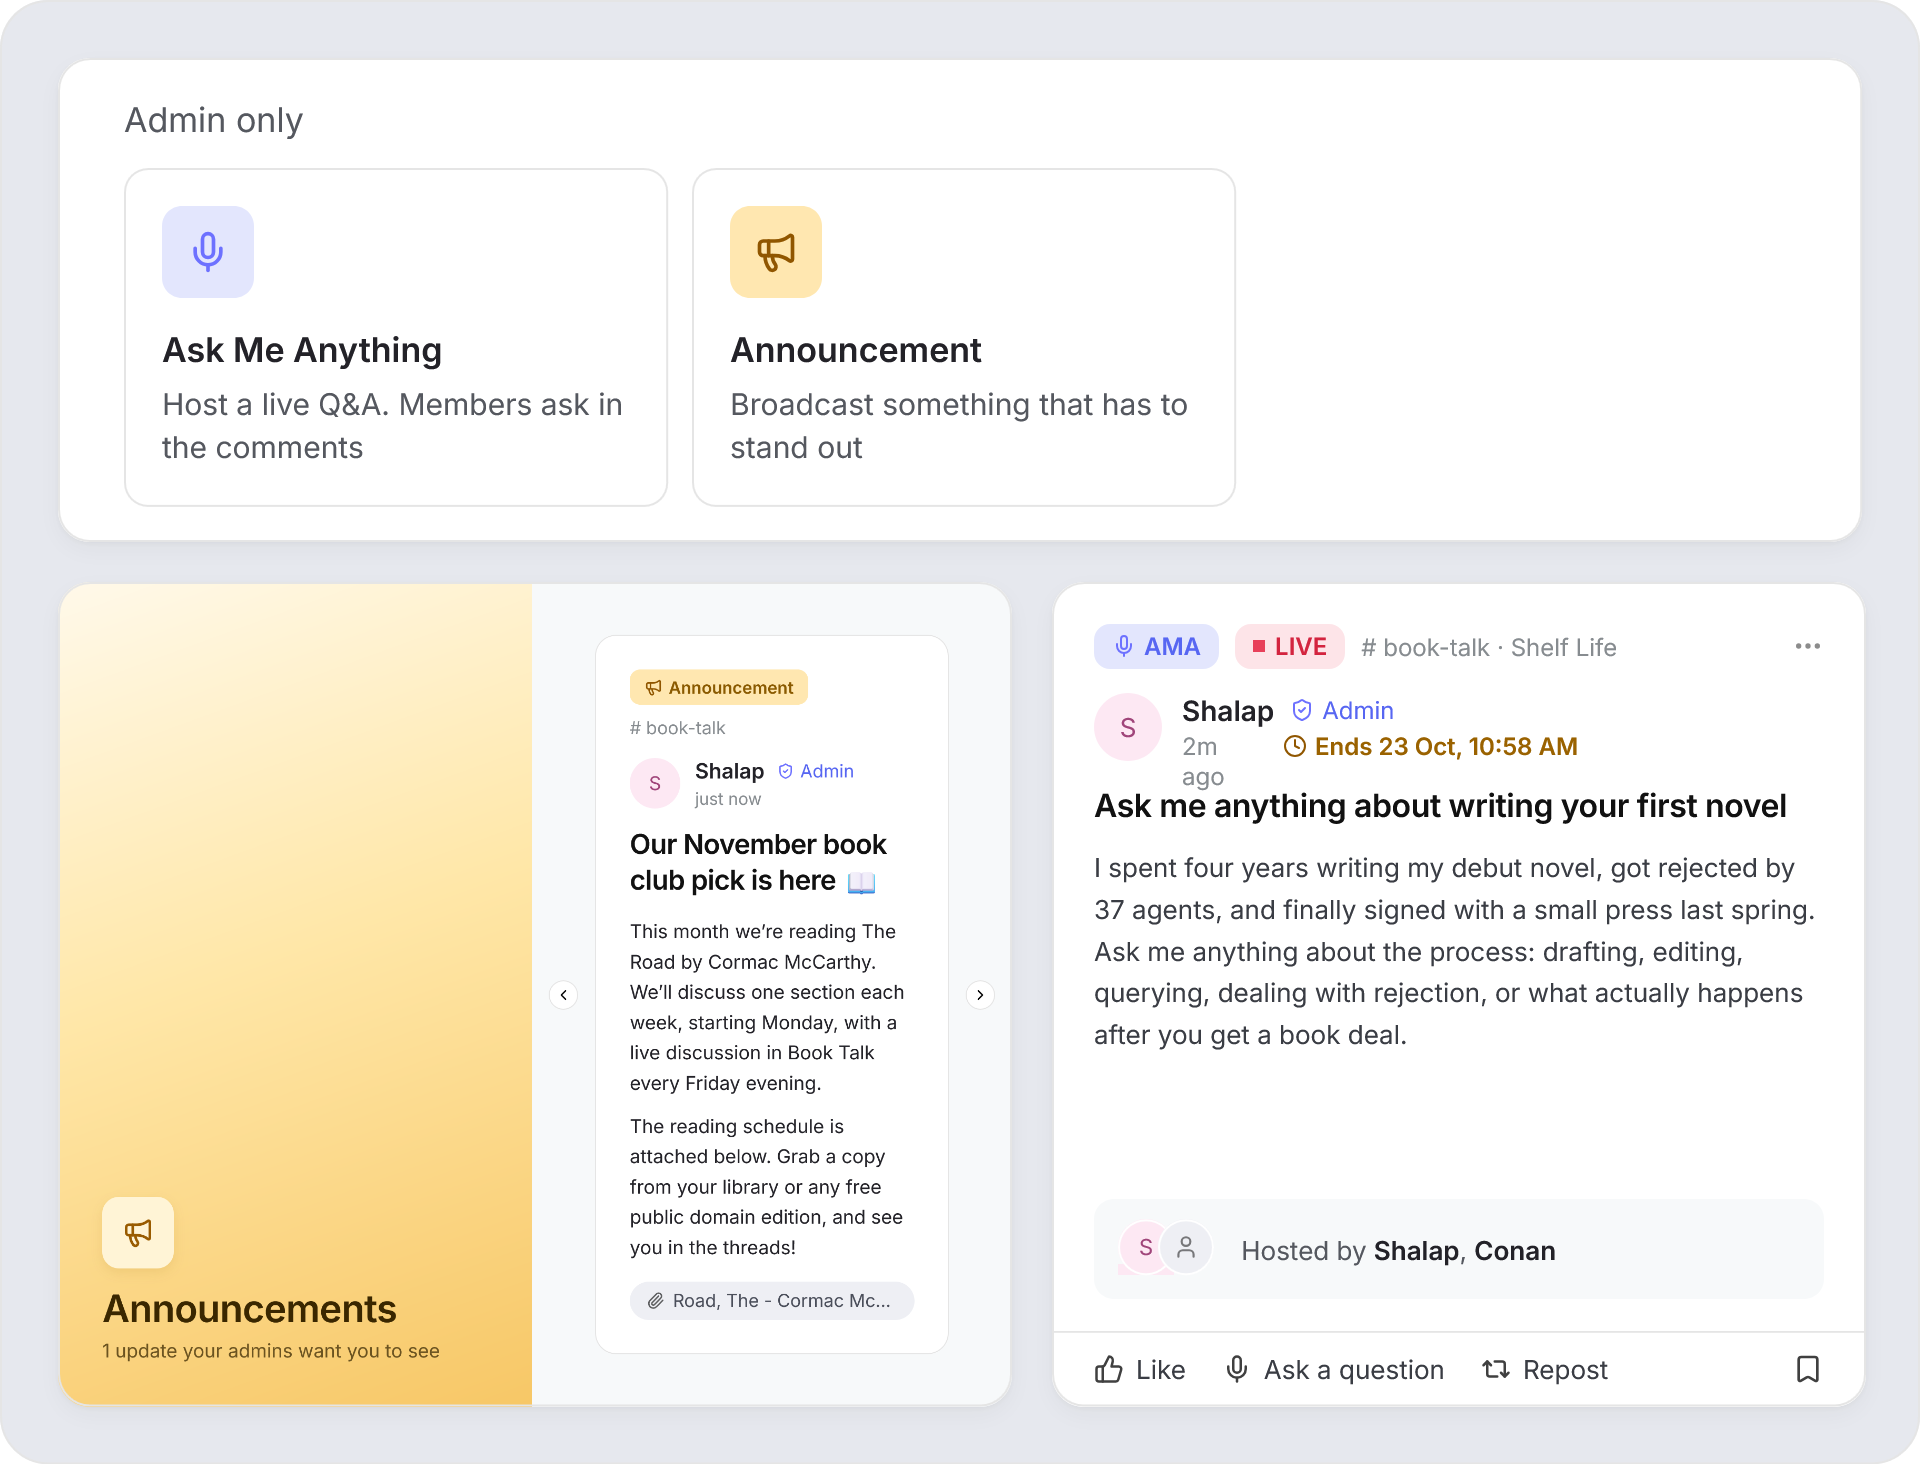
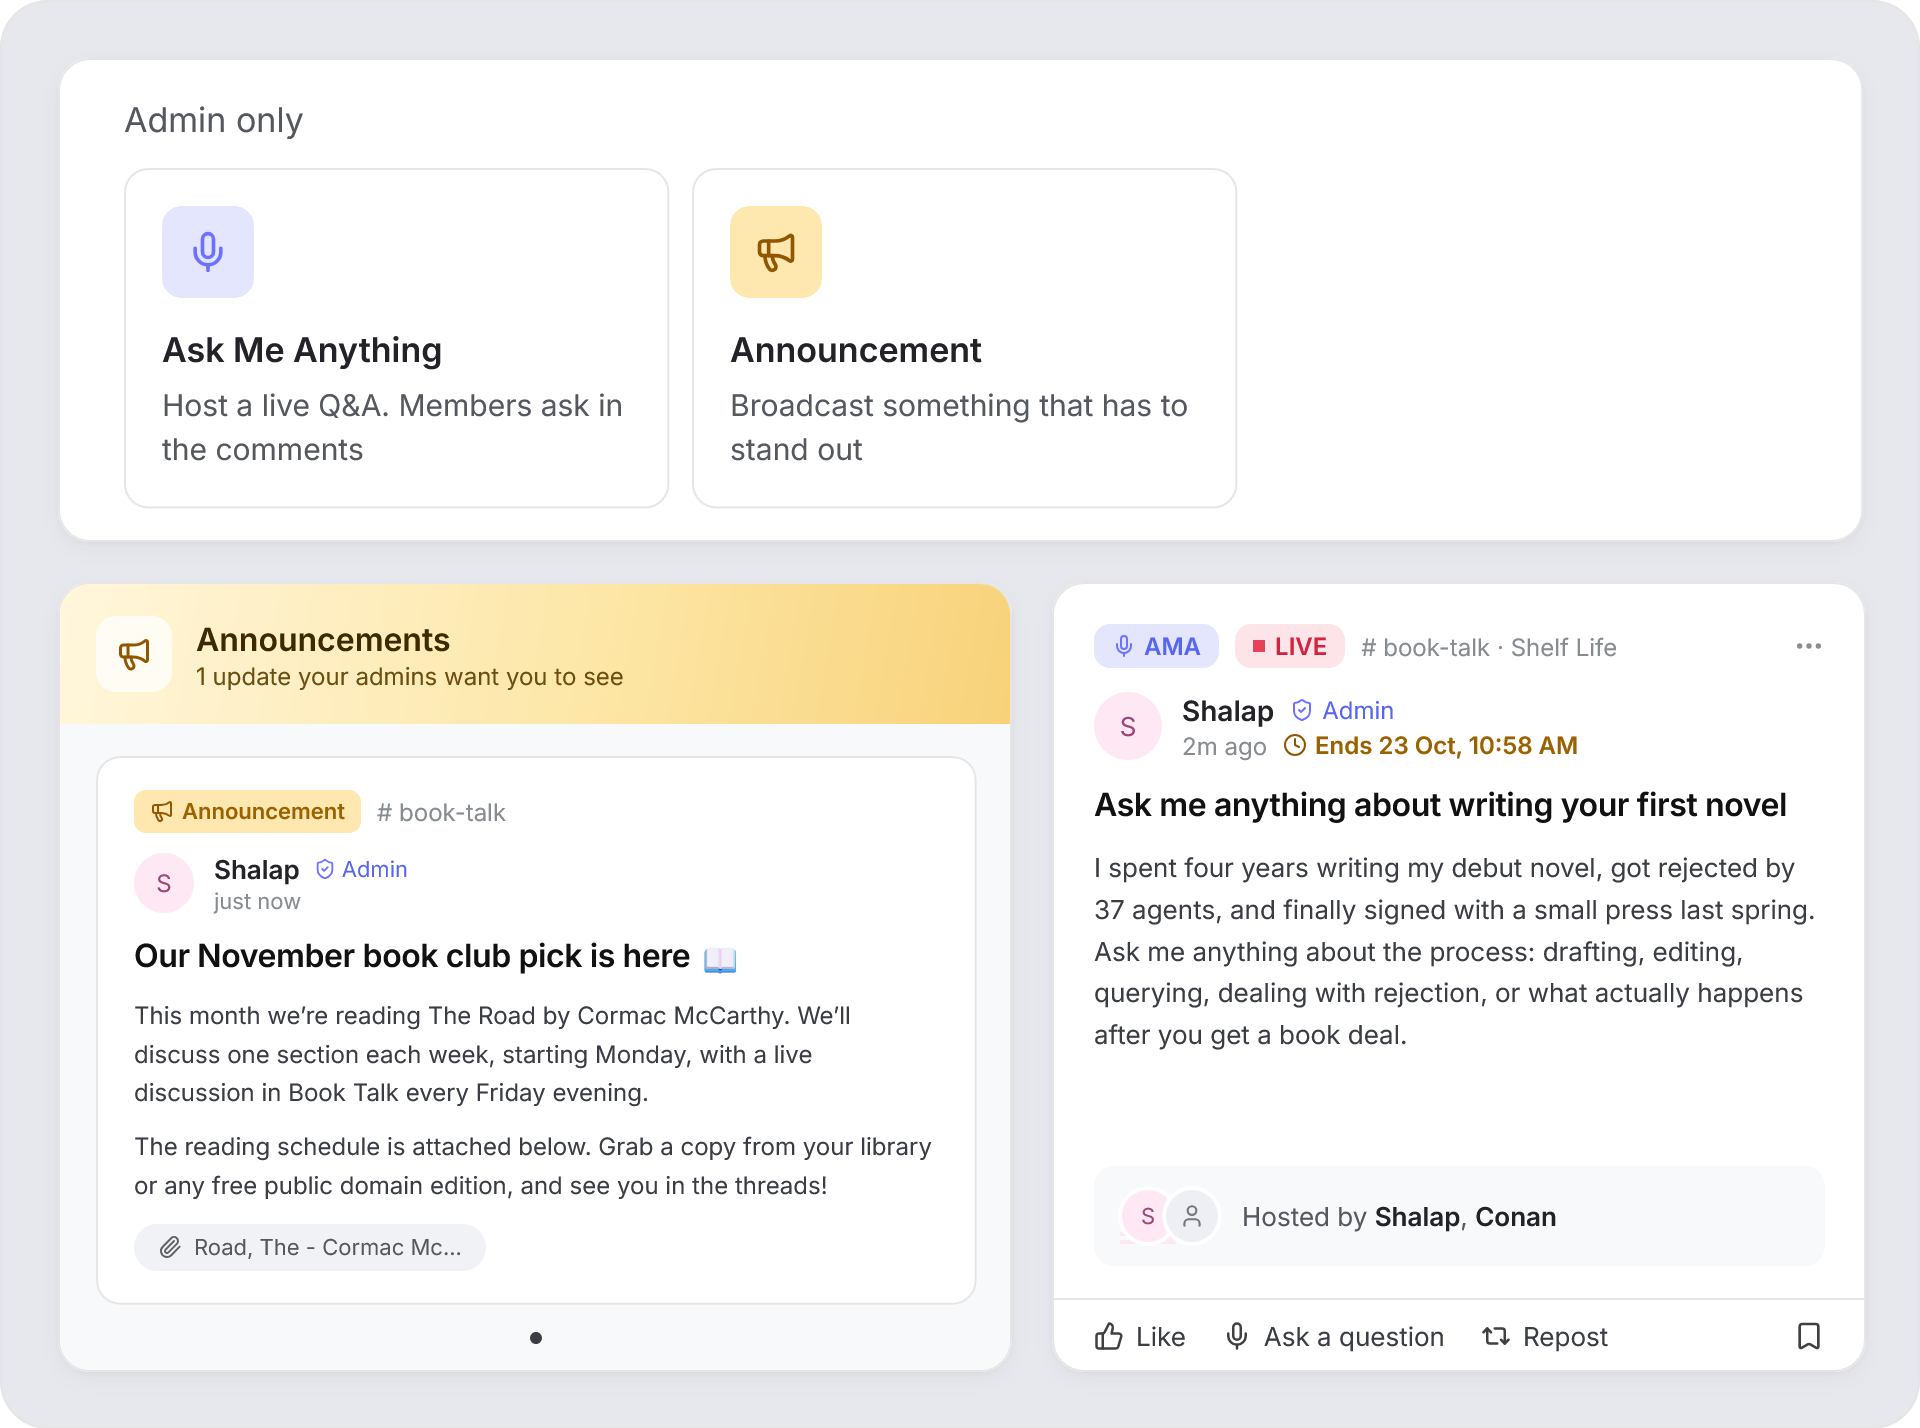
test

diff --git a/Community_Phase4_IN.htm b/Community_Phase4_IN.htm
@@ -373,7 +373,7 @@
   </div>
   <div class="product-card">
     <div class="card-inner">
-      <img src="https://shalap-pandotra.github.io/images/Admin-Posts-Card-selection.png" alt="Create a post modal with Ask Me Anything and Announcement post types" style="width:100%;display:block;">
+      <img src="https://shalap-pandotra.github.io/work-images/Admin-Posts-Card-selection.png" alt="Create a post modal with Ask Me Anything and Announcement post types" style="width:100%;display:block;">
       <div class="card-body">
         <div class="info-box">
           <div class="info-block">
@@ -405,7 +405,7 @@
   </div>
   <div class="product-card">
     <div class="card-inner">
-      <img src="https://shalap-pandotra.github.io/images/Team-Roles-Card-selection.png" alt="Moderators tab in Team and roles" style="width:100%;display:block;">
+      <img src="https://shalap-pandotra.github.io/work-images/Team-Roles-Card-selection.png" alt="Moderators tab in Team and roles" style="width:100%;display:block;">
       <div class="card-body">
         <h2 class="card-title">Share the work of running your community</h2>
         <p class="card-desc">Assign moderators to the channels you choose, so conversations stay on track without you being everywhere at once.</p>
@@ -424,7 +424,7 @@
           </li>
         </ul>
         <div style="height:1px;background:#F0F0F2;margin:20px 0 20px;"></div>
-        <a href="#" target="blank" class="learn-more-link" style="display:inline-block;margin-top:6px;font-family:'Inter',sans-serif;font-size:13px;font-weight:600;color:#6D5AE8;text-decoration:none;border-bottom:1.5px solid rgba(109,90,232,0.3);padding-bottom:2px;">Learn more &rarr;</a>
+        <a href="https://help.graphy.com/support/solutions/articles/1060000155991-adding-moderators-to-your-community/preview" target="blank" class="learn-more-link" style="display:inline-block;margin-top:6px;font-family:'Inter',sans-serif;font-size:13px;font-weight:600;color:#6D5AE8;text-decoration:none;border-bottom:1.5px solid rgba(109,90,232,0.3);padding-bottom:2px;">Learn more &rarr;</a>
       </div>
     </div>
   </div>
